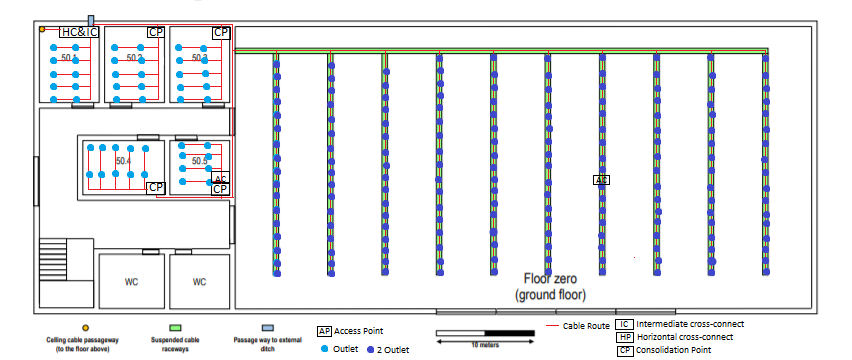
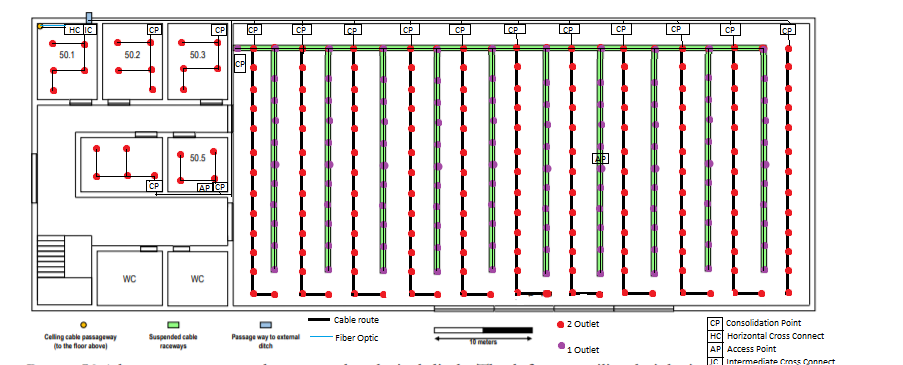
Building 5 last commit

diff --git a/doc/sprint1/1181490/README.md b/doc/sprint1/1181490/README.md
@@ -17,66 +17,75 @@ I also decided to place consolidation points in all rooms to reduce the size of 
 
 ## Inventory:
 - ### Outlet:
-    - Quantity: 390
-- ### Total Cable CAT6A: 58945.57 m
-- ### Total Fiber Optic Cable Type Monomode: 5.43  m 
+    - Quantity: 465
+- ### Total Cable CAT6A: 10217.15 m
+- ### Total Fiber Optic Cable Type Monomode: 11  m 
 - ### Intermedieat Cross Connect:
-    - Components: 1
+    - Quantity: 1
+    - Components:
         - Fiber Optic Patch Panel 24
         - Fiber Optic Switch 24
-    - Enclosure Size: 4U (2U for all devices + 50% upgrade)
+    - Enclosure Size: 2U 
 - ### Horizontal Cross Connect:
     - Quantity: 1
-        - Coper Switch 48
-        - Coper Patch Panel 48
-        - Fiber Optic Patch Panel 24
-        - Fiber Optic Switch 24
-    - Enclosure Size: 
-- ### Consolidation Point:
     - Components:
-        - Coper Patch Panel 24
-    - Quantity: 4
-    - Enclosure Size: 
+        -Fiber Optic Patch Panel 24
+        -Coper Patch Panel 48 (CAT6A)
+    - Enclosure Size: 6U 
+- ### Consolidation Point:
+    -Quantity: 16
+    - Components:
+        - 4x Coper Patch Panel 24 (1U)
+        - 12x Coper Patch Panel 48 (2U)
+    -Total Enclousure Sizer needed for all cps:  42 U   
 - ### Access point:
     - Quantity: 2
-
+    - Channel 1, 6 respectively 
+- ### Patch Cord
+    -Quantity: 465x Copper Patch Cord of 0.5 m
+    -Quantity: 24x  Fiber Optic Patch cord of 0.5 m
 ### Room 50.1: 
     - Dimensions: 6 m x 7.71 m
     - Area: 46.26  m2
     - Number of Outlets: 10 
-    - Total Cable Distance: 71.14 m (All in the room)
+    - Total Cable Distance: 53.71 m 
 
 ### Room 50.2: 
     - Dimensions: 6 m x 7.71 m
     - Area: 46.26 m2
     - Number of Outlets: 10
-    - Total Cable Distance: 74  m (7.14 m are to get to the room )
+    - Total Cable Distance: 59.71  m 
 ### Room 50.3: 
     - Dimensions: 6 m x 7.71 m
     - Area: 46.26 m2
     - Number of Outlets: 10
-    - Total Cable Distance: 80.86 m (14 m are to get to the room )
+    - Total Cable Distance: 66.29 m
 ### Room 50.4:
     - Dimensions: 8.29 m x 5.43 m
     - Area: 45.01 m2
     - Number of Outlets: 10
-    - Total Cable Distance: 112.6 m (39.71 m are to get to the room )
+    - Total Cable Distance: 99.14 m 
 ### Room 50.5: 
     - Dimensions: 6 m x 5.43 m
     - Area: 32.58 m2
     - Number of Outlets: 8
-    - Total Cable Distance: 89.4  m (32.29 m are to get to the room )
+    - Total Cable Distance: 70  m 
 ### Right Open Area: 
     - Dimensions: 59.14 m x 28.86 m
     - Area: 1706.78 m2
     - Number of Outlets: 342
-    - Total Cable Distance: 5466.57 m (17.14 m are to get to the room )
+    - Total Cable Distance: 9868.29 m 
+
 
 
 
 
 ## **First floor:**
 ![Piso1.png](Piso1.png)
+
+ - Dimensions: 80 m x 30 m
+ - Area: 2400 m2
+
 
 I decided to place the HC in room 51.1 because it is closer to the floor cable passageway, giving the possibility to access the previous floor reducing the need for fiber optic cable type multimode.
 
@@ -87,60 +96,49 @@ Considering that the entire space must have access to wi-fi, I decided to strate
 ## Inventory:
 - ### Outlet:
     - Quantity: 70
-- ### Total Cable CAT6A: 58945.57 m
-- ### Total Fiber Optic Cable Type Monomode: 5.43  m 
-- ### Intermedieat Cross Connect:
-    - Components: 1
-        - Fiber Optic Patch Panel 24
-        - Fiber Optic Switch 24
-    - Enclosure Size: 4U (2U for all devices + 50% upgrade)
+- ### Total Cable CAT6A: 598.57 m
+- ### Total Fiber Optic Cable Type Monomode: 3  m 
 - ### Horizontal Cross Connect:
     - Quantity: 1
-        - Coper Switch 48
-        - Coper Patch Panel 48
+        - Copper Switch 24
+        - Copper Patch Panel 24
         - Fiber Optic Patch Panel 24
         - Fiber Optic Switch 24
-    - Enclosure Size: 
+    - Enclosure Size: 6U
 - ### Consolidation Point:
     - Components:
-        - Coper Patch Panel 24
-    - Quantity: 4
-    - Enclosure Size: 
+        - 2x Copper Patch Panel 24
+        - 2x Copper Patch Panel 48 
+    - Enclosure Size: 9U
 - ### Access point:
-    - Quantity: 2
+    - Quantity: 1
+    - Channel 11
+- ### Patch Cord
+    -Quantity: 70x Copper Patch Cord of 0.5 m
+    -Quantity: 24x  Fiber Optic Patch cord of 0.5 m
 ### Room 51.1: 
     - Dimensions: 6  m x 7.14 m
     - Area: 42.86  m2
     - Number of Outlets:10
-    - Total Cable Distance: 60 m 
+    - Total Cable Distance: 51.43 m 
 ### Room 51.2: 
     - Dimensions: 6  m x 7.14 m
     - Area: 42.86  m2
     - Number of Outlets: 10
-    - Total Cable Distance: 67.14 m (7.14 m are to get to the room )
+    - Total Cable Distance: 71.43
 ### Room 51.3: 
     - Dimensions: 6 m x 11.14 m
     - Area: 66.86 m2
     - Number of Outlets: 14
-    - Total Cable Distance: 125.43 m (14 m are to get to the room )
+    - Total Cable Distance: 105.71 m
 ### Room 51.4:
     - Dimensions: 14.86 m x 5.43 m
     - Area: 80.67 m2
     - Number of Outlets: 18
-    - Total Cable Distance: 219.29 m (32.86 m are to get to the room )
+    - Total Cable Distance: 182.86
 ### Room 51.5: 
     - Dimensions: 13.43 m x 6.29 m
     - Area: 84.42 m2
     - Number of Outlets: 18
-    - Total Cable Distance: 290.71 m (44.29 m are to get to the room )
+    - Total Cable Distance: 187.14 m
 
-* 1 HC:
-    - Coper Patch Panel 48
-    - Fiber Optic Patch Panel 24
-    - Copper Switch 48
-    - Enclosure size: 10U (5U for all devices + 50% for upgrade)
-
-*  5 CP:
-    - 5 Coper Switch 24
-    - 5 Coper Patch Panel 24
-    - Enclosure size: 4U (2U for all devices + 50% for upgrade)
